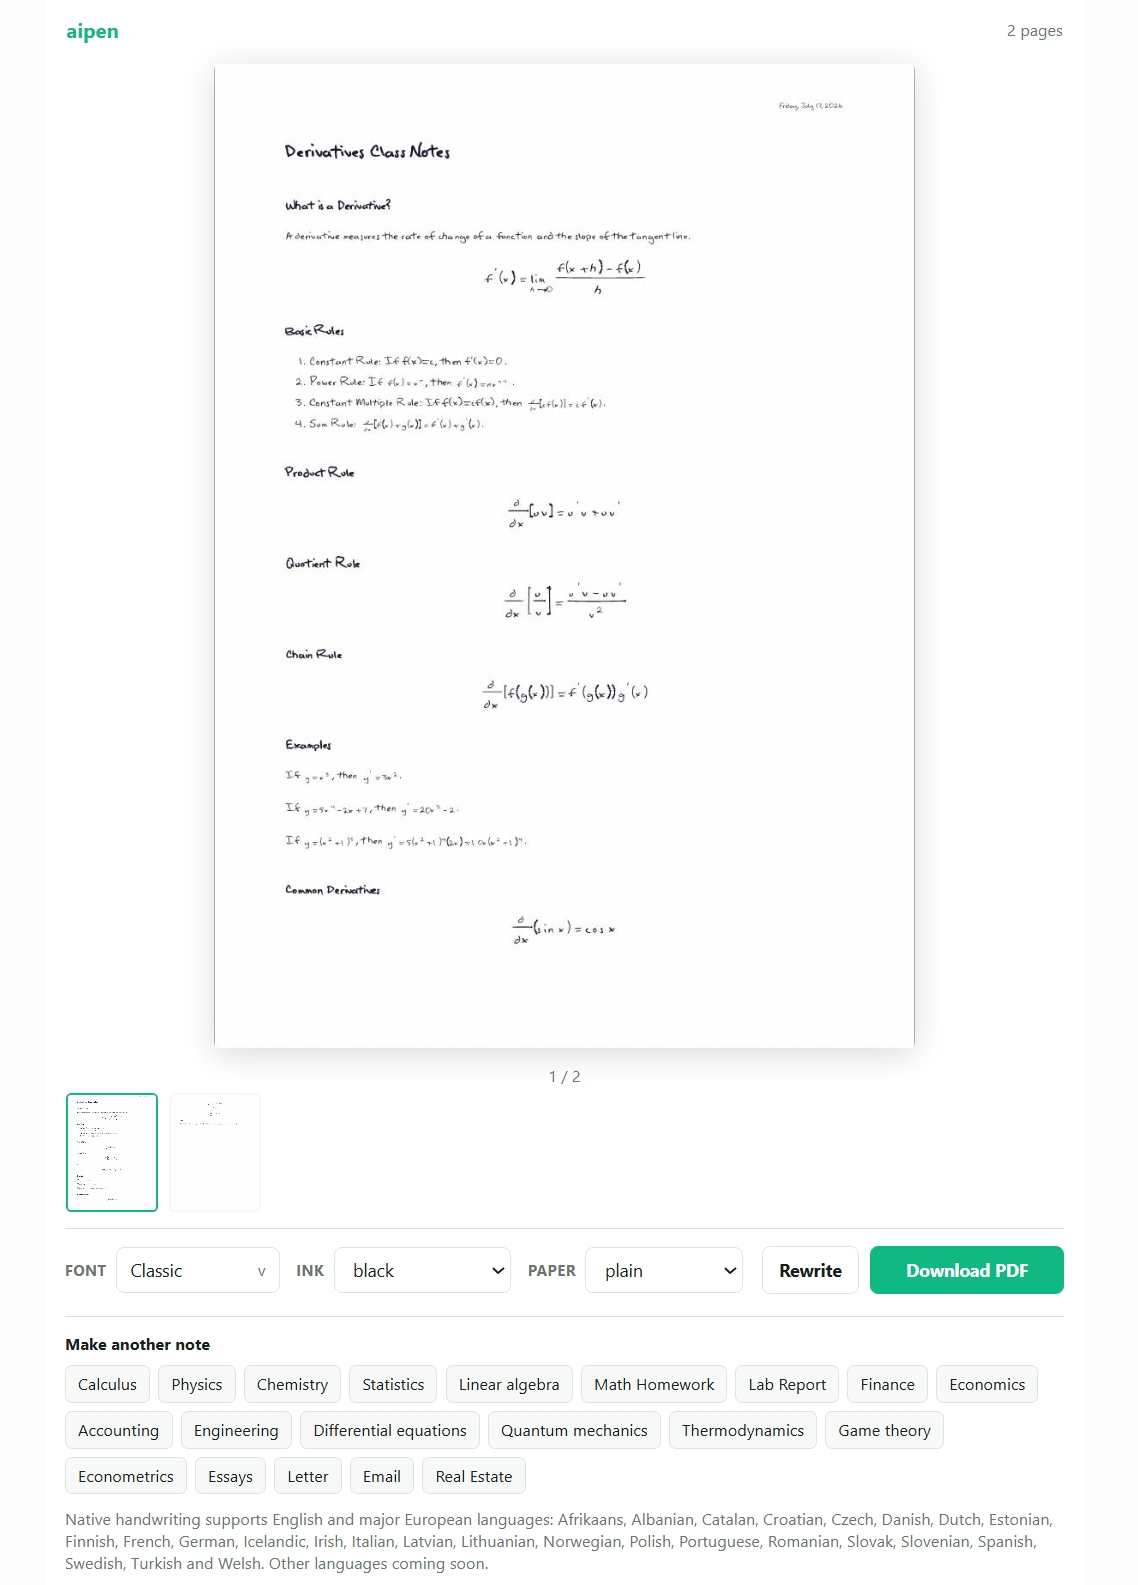
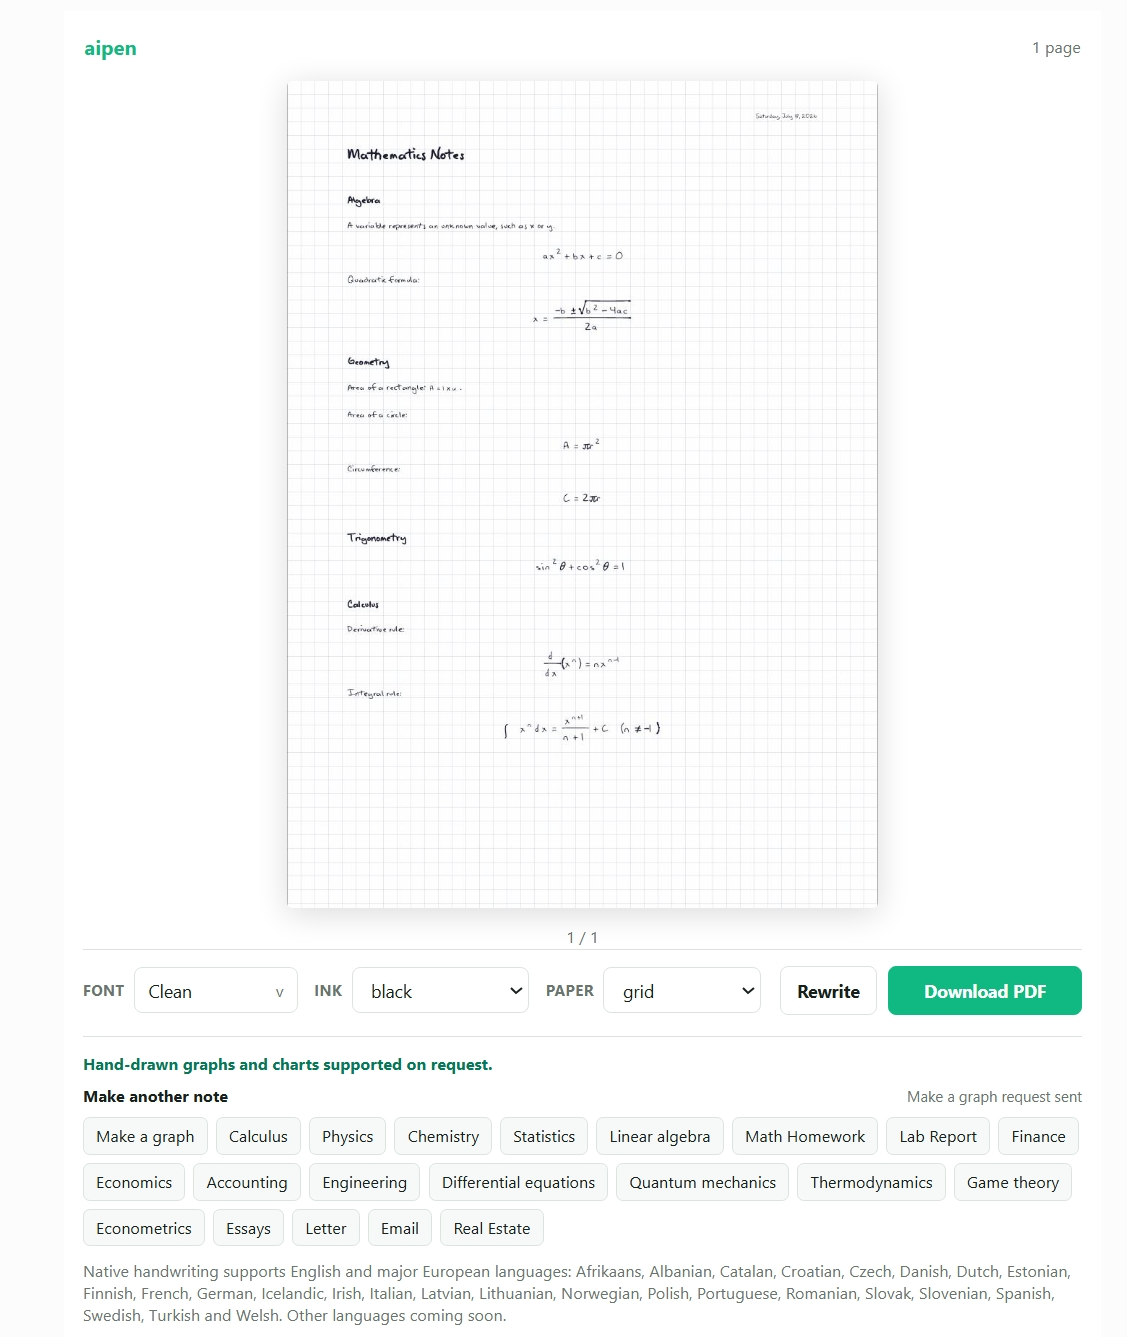
Add demo video and optimize render queue

diff --git a/src/index.ts b/src/index.ts
@@ -131,7 +131,40 @@ type RenderedPage = {
 };
 
 const anonymousRenderCounts = new Map<string, { count: number; resetAt: number }>();
-let activeRenderCount = 0;
+
+// ---- shared browser: launch Chromium ONCE per instance and reuse it --------
+// Launching Chromium costs 5-10s on a small Cloud Run box; doing it per render
+// was the main reason back-to-back renders felt slow. We keep one browser
+// alive and open a fresh page (isolated context) per render instead.
+let sharedBrowserPromise: Promise<import("playwright").Browser> | null = null;
+
+async function getSharedBrowser() {
+  if (sharedBrowserPromise) {
+    try {
+      const existing = await sharedBrowserPromise;
+      if (existing.isConnected()) return existing;
+    } catch {
+      // fall through and relaunch
+    }
+  }
+  sharedBrowserPromise = chromium.launch({
+    headless: true,
+    args: ["--no-sandbox", "--disable-setuid-sandbox", "--disable-dev-shm-usage"],
+  });
+  return sharedBrowserPromise;
+}
+
+// Warm Chromium at boot so even the first render on a fresh instance skips
+// the launch cost.
+void getSharedBrowser().catch((error) => console.error("Chromium warm-up failed", error));
+
+// ---- render queue: serialize renders but WAIT instead of erroring ----------
+// Rejecting immediately made a second simultaneous request fail (and on Cloud
+// Run with concurrency=1 it triggered a cold new instance). Now up to
+// MAX_QUEUED_RENDERS requests wait their turn on the warm instance.
+const MAX_QUEUED_RENDERS = 3;
+let renderQueueTail: Promise<void> = Promise.resolve();
+let renderQueueDepth = 0;
 
 class DemoRenderLimitError extends Error {}
 class DemoRenderInputError extends Error {}
@@ -188,12 +221,21 @@ function takeAnonymousRenderAllowance(clientId: string) {
   existing.count += 1;
 }
 
-function acquireRenderSlot() {
-  if (activeRenderCount >= 1) {
-    throw new Error("Aipen is finishing another page. Please try again in a moment.");
+async function runQueuedRender<T>(task: () => Promise<T>): Promise<T> {
+  if (renderQueueDepth >= MAX_QUEUED_RENDERS) {
+    throw new Error("Aipen is very busy right now. Please try again in a minute.");
   }
-  activeRenderCount += 1;
-  return () => { activeRenderCount -= 1; };
+  renderQueueDepth += 1;
+  const previousTail = renderQueueTail;
+  let release!: () => void;
+  renderQueueTail = new Promise<void>((resolve) => { release = resolve; });
+  try {
+    await previousTail; // wait for the render ahead of us (never rejects)
+    return await task();
+  } finally {
+    renderQueueDepth -= 1;
+    release();
+  }
 }
 
 let hasWarnedAboutMissingPublicBaseUrl = false;
@@ -255,16 +297,16 @@ async function renderHandwriting(input: RenderInput) {
       if (timer) clearTimeout(timer);
     }
   };
-  const browser = await chromium.launch({
-    headless: true,
-    args: ["--no-sandbox", "--disable-setuid-sandbox"],
+  const browser = await runStage("starting the handwriting engine", () => getSharedBrowser());
+  // Isolated context per render (own cookies/storage), closed afterwards, while
+  // the browser process itself stays warm for the next request.
+  const context = await browser.newContext({
+    deviceScaleFactor: 1.5,
+    viewport: { width: 1280, height: 1600 },
   });
 
   try {
-    const page = await browser.newPage({
-      deviceScaleFactor: 1.5,
-      viewport: { width: 1280, height: 1600 },
-    });
+    const page = await context.newPage();
     await runStage("opening the Aipen render page", () => page.goto(renderUrl, {
       waitUntil: "domcontentloaded",
       timeout: remainingTime("opening the Aipen render page"),
@@ -361,7 +403,7 @@ async function renderHandwriting(input: RenderInput) {
     }));
     return { renderUrl, pages, pdf };
   } finally {
-    await browser.close();
+    await context.close().catch(() => undefined);
   }
 }
 
@@ -418,7 +460,6 @@ function createServer(assetOrigin: string, clientId: string) {
       },
     },
     async (input) => {
-      let releaseRenderSlot: (() => void) | undefined;
       try {
         if (input.text.length > MAX_RENDER_TEXT_CHARS) {
           throw new DemoRenderInputError(
@@ -426,9 +467,8 @@ function createServer(assetOrigin: string, clientId: string) {
           );
         }
         takeAnonymousRenderAllowance(clientId);
-        releaseRenderSlot = acquireRenderSlot();
         const renderInput = normalizeRenderInput(input);
-        const { pages, pdf } = await renderHandwriting(renderInput);
+        const { pages, pdf } = await runQueuedRender(() => renderHandwriting(renderInput));
         const storedPages = await Promise.all(pages.map(async (page) => {
           const id = await storeArtifact(page.jpeg, "jpeg");
           return {
@@ -456,8 +496,6 @@ function createServer(assetOrigin: string, clientId: string) {
           content: [{ type: "text", text: error instanceof DemoRenderLimitError || error instanceof DemoRenderInputError ? message : `Aipen render failed: ${message}` }],
           isError: true,
         };
-      } finally {
-        releaseRenderSlot?.();
       }
     },
   );

diff --git a/README.md b/README.md
@@ -47,6 +47,12 @@ To test it in ChatGPT Developer Mode:
 The demo accepts up to 6,500 characters, renders up to five pages per request,
 and allows 40 renders per IP per hour.
 
+### Demo Video
+
+Watch the full 4K trailer and product walkthrough on YouTube:
+
+https://www.youtube.com/watch?v=SdR5WnF-BUk
+
 ## Architecture
 
 ```text